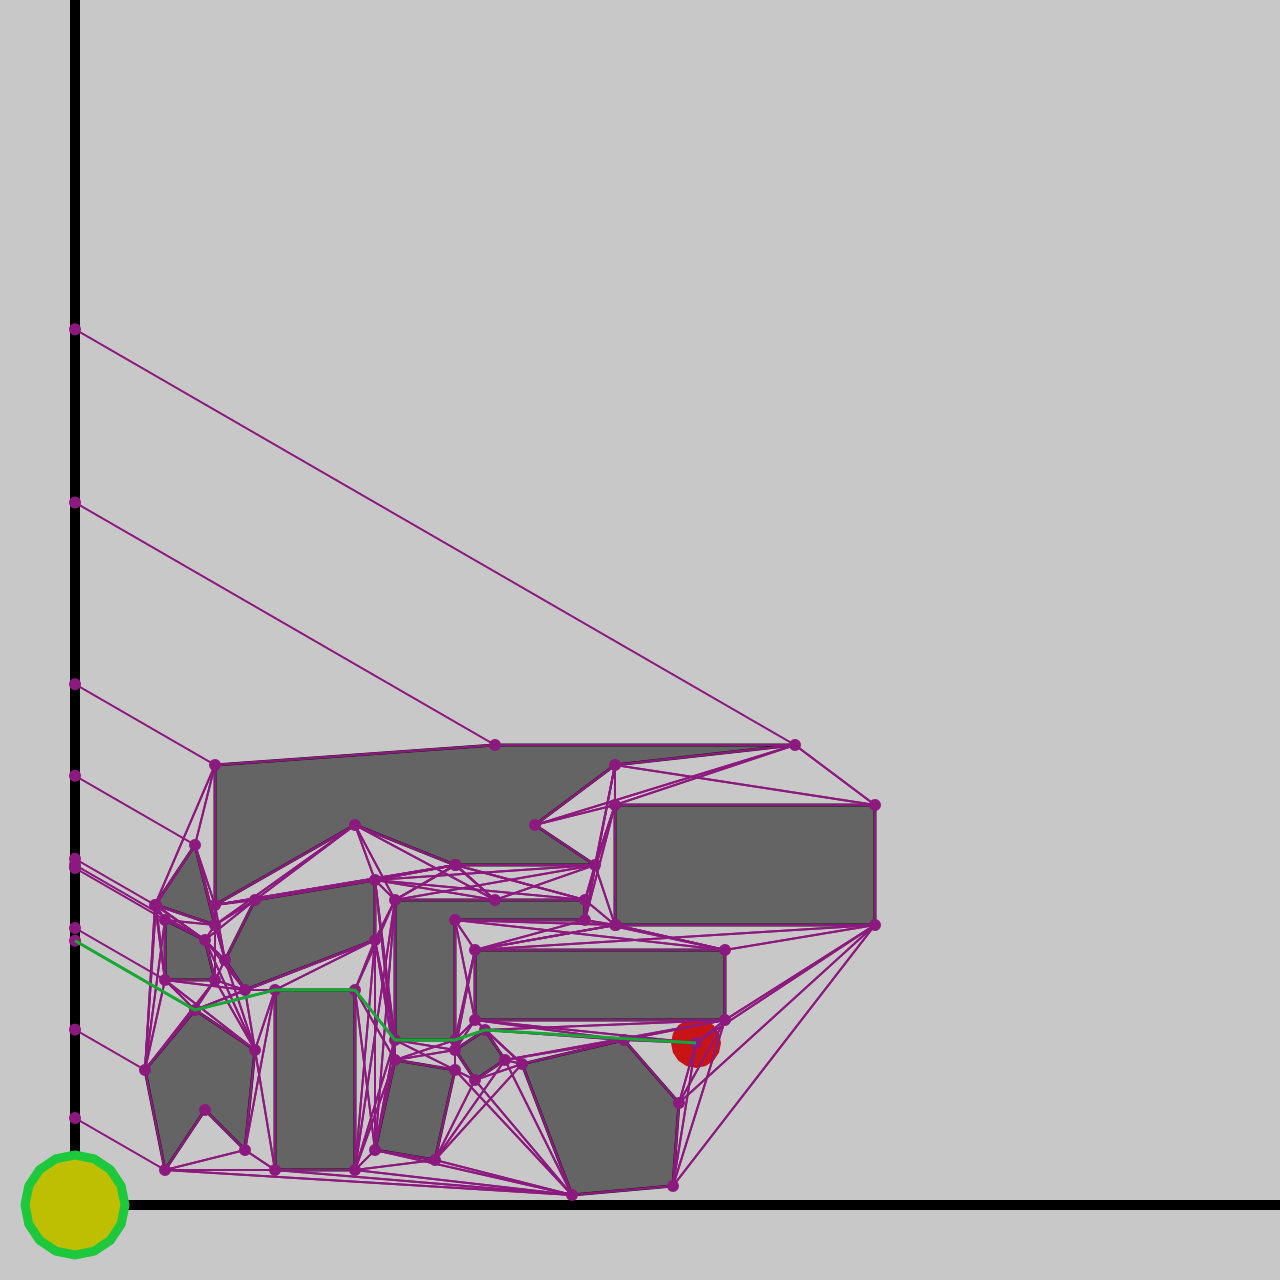
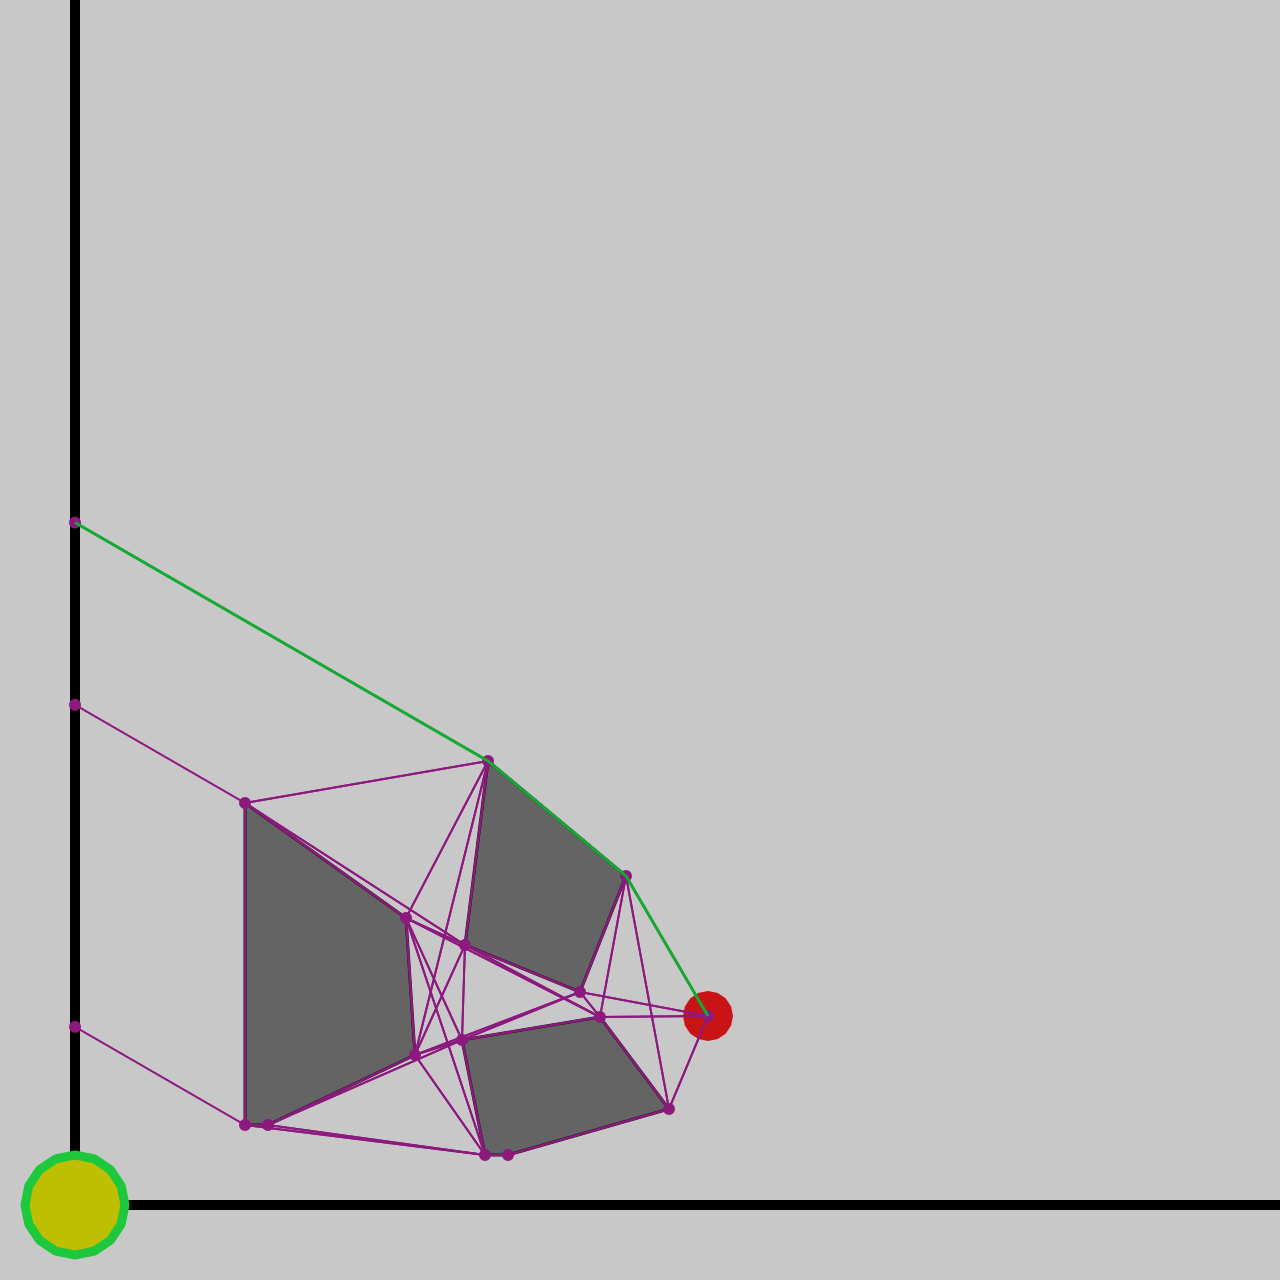
out of my fckng mind

diff --git a/lisa_rennt/graph_solution/dijkstra.go b/lisa_rennt/graph_solution/dijkstra.go
@@ -2,10 +2,11 @@ package graph_solution
 
 import (
 	"BwInf37_runde2/lisa_rennt/lib"
+	"math"
 )
 
 func Dijkstra(g *lib.Graph) *lib.Node {
-	/*var minWeight float64 = math.MaxFloat64
+	minWeight := math.MaxFloat64
 	for _, n := range g.Nodes {
 		for _, e := range n.Edges {
 			if e.Weight < minWeight {
@@ -14,21 +15,52 @@ func Dijkstra(g *lib.Graph) *lib.Node {
 		}
 	}
 	for _, n := range g.Nodes {
-		for _, e := range n.Edges {
-			e.Weight -= minWeight
+		if n.Info["Type"] != "start" {
+			n.ShortestPath = math.MaxFloat64
 		}
-	}*/
+		/*for _, e := range n.Edges {
+			e.Weight -= minWeight
+		}*/
+	}
 
-	var start *lib.Node
-	for _, n := range g.Nodes {
-		if n.Info["Type"] == "start" {
-			start = n
-		} else {
-			n.ShortestPath = -1
+	q := g.Nodes
+	for len(q) > 0 {
+		var min *lib.Node
+		minI := 0
+		for i, n := range q {
+			if min == nil || n.ShortestPath < min.ShortestPath {
+				min = n
+				minI = i
+			}
+		}
+		if min.Info["Type"] == "finish" {
+			return min
+		}
+		q = append(q[:minI], q[minI+1:]...)
+
+		for _, e := range min.Edges {
+			for _, o := range q {
+				if e.Node == o {
+					if min.ShortestPath+e.Weight < e.ShortestPath {
+						e.ShortestPath = min.ShortestPath + e.Weight
+						e.ShortestParent = min
+					}
+					break
+				}
+			}
+
 		}
 	}
 
-	var toGo []*lib.Node
+	var min *lib.Node
+	for _, n := range g.Nodes {
+		if n.Info["Type"] == "finish" && (min == nil || n.ShortestPath < min.ShortestPath) {
+			min = n
+		}
+	}
+	return min
+
+	/*var toGo []*lib.Node
 	toGo = append(toGo, start)
 
 	for {
@@ -46,8 +78,8 @@ func Dijkstra(g *lib.Graph) *lib.Node {
 
 		for _, e := range n.Edges {
 			if e.Node.ShortestPath == -1 || n.ShortestPath+e.Weight < e.Node.ShortestPath {
-				e.ShortestParent = n
-				e.ShortestPath = n.ShortestPath + e.Weight
+				e.Node.ShortestParent = n
+				e.Node.ShortestPath = n.ShortestPath + e.Weight
 				toGo = append(toGo, e.Node)
 			}
 		}
@@ -58,5 +90,5 @@ func Dijkstra(g *lib.Graph) *lib.Node {
 			println("no path found")
 			return nil
 		}
-	}
+	}*/
 }

diff --git a/lisa_rennt/LisaRennt.go b/lisa_rennt/LisaRennt.go
@@ -33,7 +33,7 @@ func main() {
 	Gc.Translate(rendering.BUSSTOP_RADIUS*1.5, -(float64(rendering.HEIGHT) - rendering.BUSSTOP_RADIUS*1.5))
 
 	// Read-File
-	Obstacles, Home = file.Read("./lisa_rennt/examples/lisarennt5.txt")
+	Obstacles, Home = file.Read("./lisa_rennt/examples/lisarennt2.txt")
 
 	rendering.RenderEnvironment(Gc)
 	rendering.RenderHome(Gc, Home)
